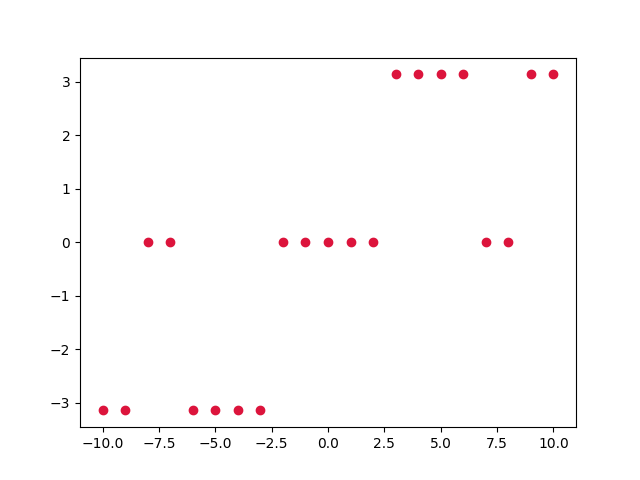
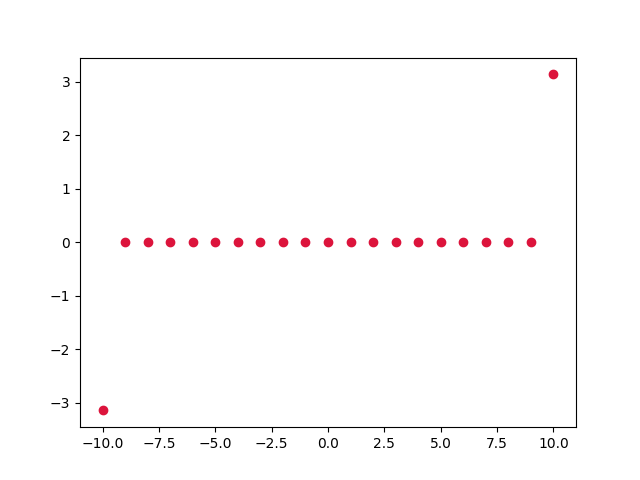
task 2

diff --git a/course_works/radio_circuits_and_signals/task_2.py b/course_works/radio_circuits_and_signals/task_2.py
@@ -1,4 +1,11 @@
 from utils.enum import *
+
+from utils.plot import plot, plots
+from utils.img import add_img
+from utils.signal import Signal
+
+import numpy as np
+
 class Task:
 
     def __init__(self, document, settings):
@@ -18,8 +25,8 @@ class Task:
         line("")
         line_b("Завдання №2")
 
-        self.sub_task_1()
-        self.sub_task_2()
+        # self.sub_task_1()
+        # self.sub_task_2()
         self.sub_task_3()
 
         return self.document, self.settings
@@ -35,6 +42,63 @@ class Task:
 
         line_b("Прямокутний сигнал.", "1)")
 
+        A = self.settings['TASK_2']['a_b_pr']
+        q = 2
+        f = eval(self.settings['TASK_2']['f_gr'])
+
+        task_2 = []
+
+        t = eval(self.settings['TASK_2']['t_pr'])
+        t_tick = t/100
+        t_line = np.arange(-3*t, 3*t, t_tick)
+        def st(T):
+            if abs(T) <= t/2:
+                return A
+            return 0
+
+        def st_s(i):
+            return int(i*q*t/t_tick)
+
+        s = Signal(st, t_line, [0])
+        task_2.append([s.base_time_line, s.base_signal_line])
+
+        w_alt = 18*np.pi*(1/t)
+        w_tick_alt = w_alt/1000
+        w_line_alt = np.arange(-w_alt,w_alt,w_tick_alt)
+        def sw(W):
+            return abs(A*t*(np.sin(W*t/2)/(W*t/2)))
+
+        
+
+        def sf(W):
+            if A*t*(np.sin(W*t/2)/(W*t/2)) < 0:
+                if W >= 0:
+                    return -np.pi
+                return np.pi
+
+            return 0
+
+        s_alt = Signal(sw, w_line_alt, [0])
+        task_2.append([s_alt.base_time_line, s_alt.create_signal_line()])
+
+        s = Signal(sf, w_line_alt, [0])
+        task_2.append([s.base_time_line, s.create_signal_line()])
+
+
+        w = 3*np.pi*f
+        w_tick = w/1000
+        w_line = np.arange(-w,w,w_tick)
+        def sw_alt(W):
+            return sw(W-f)/2
+
+        def sw_s(i):
+            return int(i*w/w_tick)
+
+        s = Signal(sw_alt, w_line, [sw_s(-0.75), sw_s(0.55)])
+        task_2.append([s.base_time_line, s.create_signal_line()])
+
+        plots(task_2)
+
     def sub_task_2(self):
         def line(text, style="Base", alignment=LEFT):
             line = self.document.add_paragraph(text, style=style)
@@ -46,6 +110,55 @@ class Task:
 
         line_b("Трикутний сигнал.", "2)")
 
+        A = self.settings['TASK_2']['a_b_tr']
+        f = eval(self.settings['TASK_2']['f_gr'])
+
+        task_2 = []
+
+        t = eval(self.settings['TASK_2']['t_tr'])
+        t_tick = t/100
+        t_line = np.arange(-3*t, 3*t, t_tick)
+        def st(T):
+            if abs(T) <= t/2:
+                return A * (1 - abs(T)/(t/2))
+            return 0
+
+        def st_s(i):
+            return int(i*t/t_tick)
+
+        s = Signal(st, t_line, [0])
+        task_2.append([s.base_time_line, s.base_signal_line])
+
+        w_alt = 24*np.pi*(1/t)
+        w_tick_alt = w_alt/1000
+        w_line_alt = np.arange(-w_alt,w_alt,w_tick_alt)
+        def sw(W):
+            return (t/2)*((np.sin(W*t/4)**2)/((W*t/4)**2))
+
+        def sf(W):
+            return 0
+
+        s_alt = Signal(sw, w_line_alt, [0])
+        task_2.append([s_alt.base_time_line, s_alt.create_signal_line()])
+
+        s = Signal(sf, w_line_alt, [0])
+        task_2.append([s.base_time_line, s.create_signal_line()])
+
+
+        w = 3*np.pi*f
+        w_tick = w/1000
+        w_line = np.arange(-w,w,w_tick)
+        def sw_alt(W):
+            return sw(W-f)/2
+
+        def sw_s(i):
+            return int(i*w/w_tick)
+
+        s = Signal(sw_alt, w_line, [sw_s(-0.75), sw_s(0.55)])
+        task_2.append([s.base_time_line, s.create_signal_line()])
+
+        plots(task_2)
+
     def sub_task_3(self):
         def line(text, style="Base", alignment=LEFT):
             line = self.document.add_paragraph(text, style=style)
@@ -56,3 +169,58 @@ class Task:
             line2.add_run(text).bold = True
 
         line_b("Двосторонній експоненційний сигнал.", "3)")
+
+        A = self.settings['TASK_2']['a_b_ex']
+        f = eval(self.settings['TASK_2']['f_gr'])
+        AT0 = eval(self.settings['TASK_2']['a_ex']) #1700000
+
+        task_2 = []
+
+        t = 1/f
+        t_tick = t/100
+        t_line = np.arange(-3*t, 3*t, t_tick)
+        def st(T):
+            if abs(T) > 0:
+                return A * np.exp(-AT0*abs(T))
+            return 0
+
+        def st_s(i):
+            return int(i*t/t_tick)
+
+        s = Signal(st, t_line, [0])
+        task_2.append([s.base_time_line, s.base_signal_line])
+
+        w_alt = 24*np.pi*(1/t)
+        w_tick_alt = w_alt/1000
+        w_line_alt = np.arange(-w_alt,w_alt,w_tick_alt)
+        def sw(W):
+            return A*2*AT0/(W**2+AT0**2)
+
+        def sf(W):
+            return 0
+
+        s_alt = Signal(sw, w_line_alt, [0])
+        task_2.append([s_alt.base_time_line, s_alt.create_signal_line()])
+
+        s = Signal(sf, w_line_alt, [0])
+        task_2.append([s.base_time_line, s.create_signal_line()])
+
+
+        w = 12*np.pi*f
+        w_tick = w/1000
+        w_line = np.arange(-w,w,w_tick)
+        def sw_alt(W):
+            return sw(W)/2
+
+        def sw_s(i):
+            return int(i*w/w_tick)
+
+        class SignalSpec(Signal):
+            def strategy(self, x, y):
+                if x > y:
+                    return x
+                return y
+        s = SignalSpec(sw_alt, w_line, [sw_s(-0.65), sw_s(0.65)])
+        task_2.append([s.base_time_line, s.create_signal_line()])
+
+        plots(task_2)

diff --git a/utils/signal.py b/utils/signal.py
@@ -1,0 +1,35 @@
+from collections import deque
+
+class Signal:
+    def __init__(self, func, time_line, impulces=[0]):
+        self.func = func
+        self.impulces = impulces
+
+        self.base_time_line = time_line
+        self.base_signal_line = [self.func(t) for t in self.base_time_line]
+
+    def strategy(self, x, y):
+        if y == 0:
+            return x
+        if x == y:
+            return x
+        return x + y
+
+    def create_signal_line(self):
+        signal_line = [0 for x in range(len(self.base_signal_line))]
+        signal_pull = []
+        for x in self.impulces:
+            temp = deque(self.base_signal_line)
+            temp.rotate(x)
+            signal_pull.append(list(temp))
+
+        for x in range(len(signal_pull)):
+            for k in range(len(signal_pull[x])):
+
+                signal_line[k] = self.strategy(signal_pull[x][k], signal_line[k])
+
+        return signal_line
+
+    # просто попробуйте это) это забавно)
+    def signal_line_so_smesh(self, smesh):
+        return [self.func(t-smesh)/2 for t in self.base_time_line]

diff --git a/utils/plot.py b/utils/plot.py
@@ -24,7 +24,13 @@ def plot(x, y, *args, show=False, save=True, name='img', **kvargs):
     fig, ax = plt.subplots()
     ax.plot(x,y, *args, **kvargs)
     if show:
-        fig.show()
+        plt.show()
     if save:
         fig.savefig(f'img/{name}.png')
     plt.close(fig)
+
+def plots(pl):
+    for p in pl:
+        fig, ax = plt.subplots()
+        ax.plot(p[0],p[1], linewidth = 1, color = 'crimson')
+    plt.show()

diff --git a/course_works/radio_circuits_and_signals/task_1.py b/course_works/radio_circuits_and_signals/task_1.py
@@ -6,7 +6,6 @@ from utils.img import add_img
 
 from math import sqrt, pow
 import numpy as np
-from matplotlib import pyplot as plt
 
 def round(func):
     def wrap(*args):
